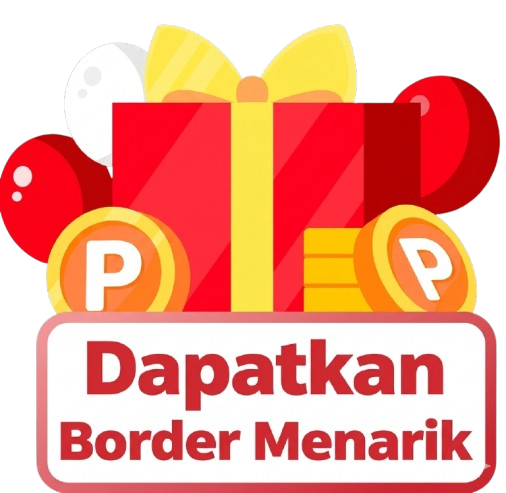
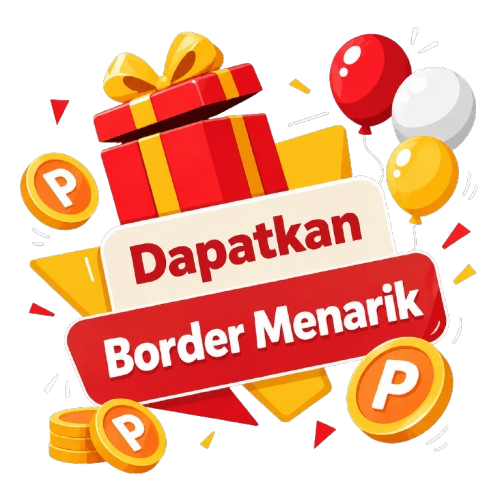
kado

diff --git a/src/components/GachaHarian.jsx b/src/components/GachaHarian.jsx
@@ -262,17 +262,17 @@ function GiftBox({ canRoll, rolling, onClick, isDark }) {
             {/* Foto kotak kado — sebelum dibuka */}
             <div className="relative" style={{width:120,height:130}}>
               {!rolling && canRoll && (
-                <img src="/image/kotak.png" alt="kotak kado"
+                <img src="/image/kotak1.png" alt="kotak kado"
                   className="w-full h-full object-contain select-none pointer-events-none"
                   style={{filter:'drop-shadow(0 12px 24px rgba(124,58,237,0.5))'}}/>
               )}
-              {/* ROLLING */}
+              {/* ROLLING — kotak2 */}
               {rolling&&(
                 <div className="absolute inset-0 flex items-center justify-center">
                   <motion.div animate={{rotate:360,scale:[1,1.4,1]}}
                     transition={{rotate:{repeat:Infinity,duration:0.45,ease:'linear'},scale:{repeat:Infinity,duration:0.9}}}
                     className="w-full h-full">
-                    <img src="/image/kotak.png" alt="kotak kado"
+                    <img src="/image/kotak2.png" alt="kotak terbuka"
                       className="w-full h-full object-contain"
                       style={{filter:'drop-shadow(0 0 20px rgba(124,58,237,0.8)) brightness(1.2)'}}/>
                   </motion.div>
@@ -281,7 +281,7 @@ function GiftBox({ canRoll, rolling, onClick, isDark }) {
               {/* LOCKED */}
               {!canRoll&&!rolling&&(
                 <div className="relative w-full h-full">
-                  <img src="/image/kotak.png" alt="kotak kado"
+                  <img src="/image/kotak1.png" alt="kotak kado"
                     className="w-full h-full object-contain select-none"
                     style={{filter:'grayscale(1) opacity(0.4)'}}/>
                   <div className="absolute inset-0 flex flex-col items-center justify-center gap-1">
@@ -375,7 +375,7 @@ function RevealModal({ badge, onClose }) {
             <motion.div animate={{scale:[0.9,1.1,0.95,1.05,1],rotate:[0,-5,5,-3,0]}}
               transition={{duration:0.75,ease:'easeOut'}}
               className="relative z-10 select-none w-32 h-32">
-              <img src="/image/kotak.png" alt="kotak kado"
+              <img src="/image/kotak2.png" alt="kotak terbuka"
                 className="w-full h-full object-contain"
                 style={{filter:'drop-shadow(0 0 30px rgba(139,92,246,0.7)) drop-shadow(0 0 60px rgba(124,58,237,0.4))'}}/>
             </motion.div>